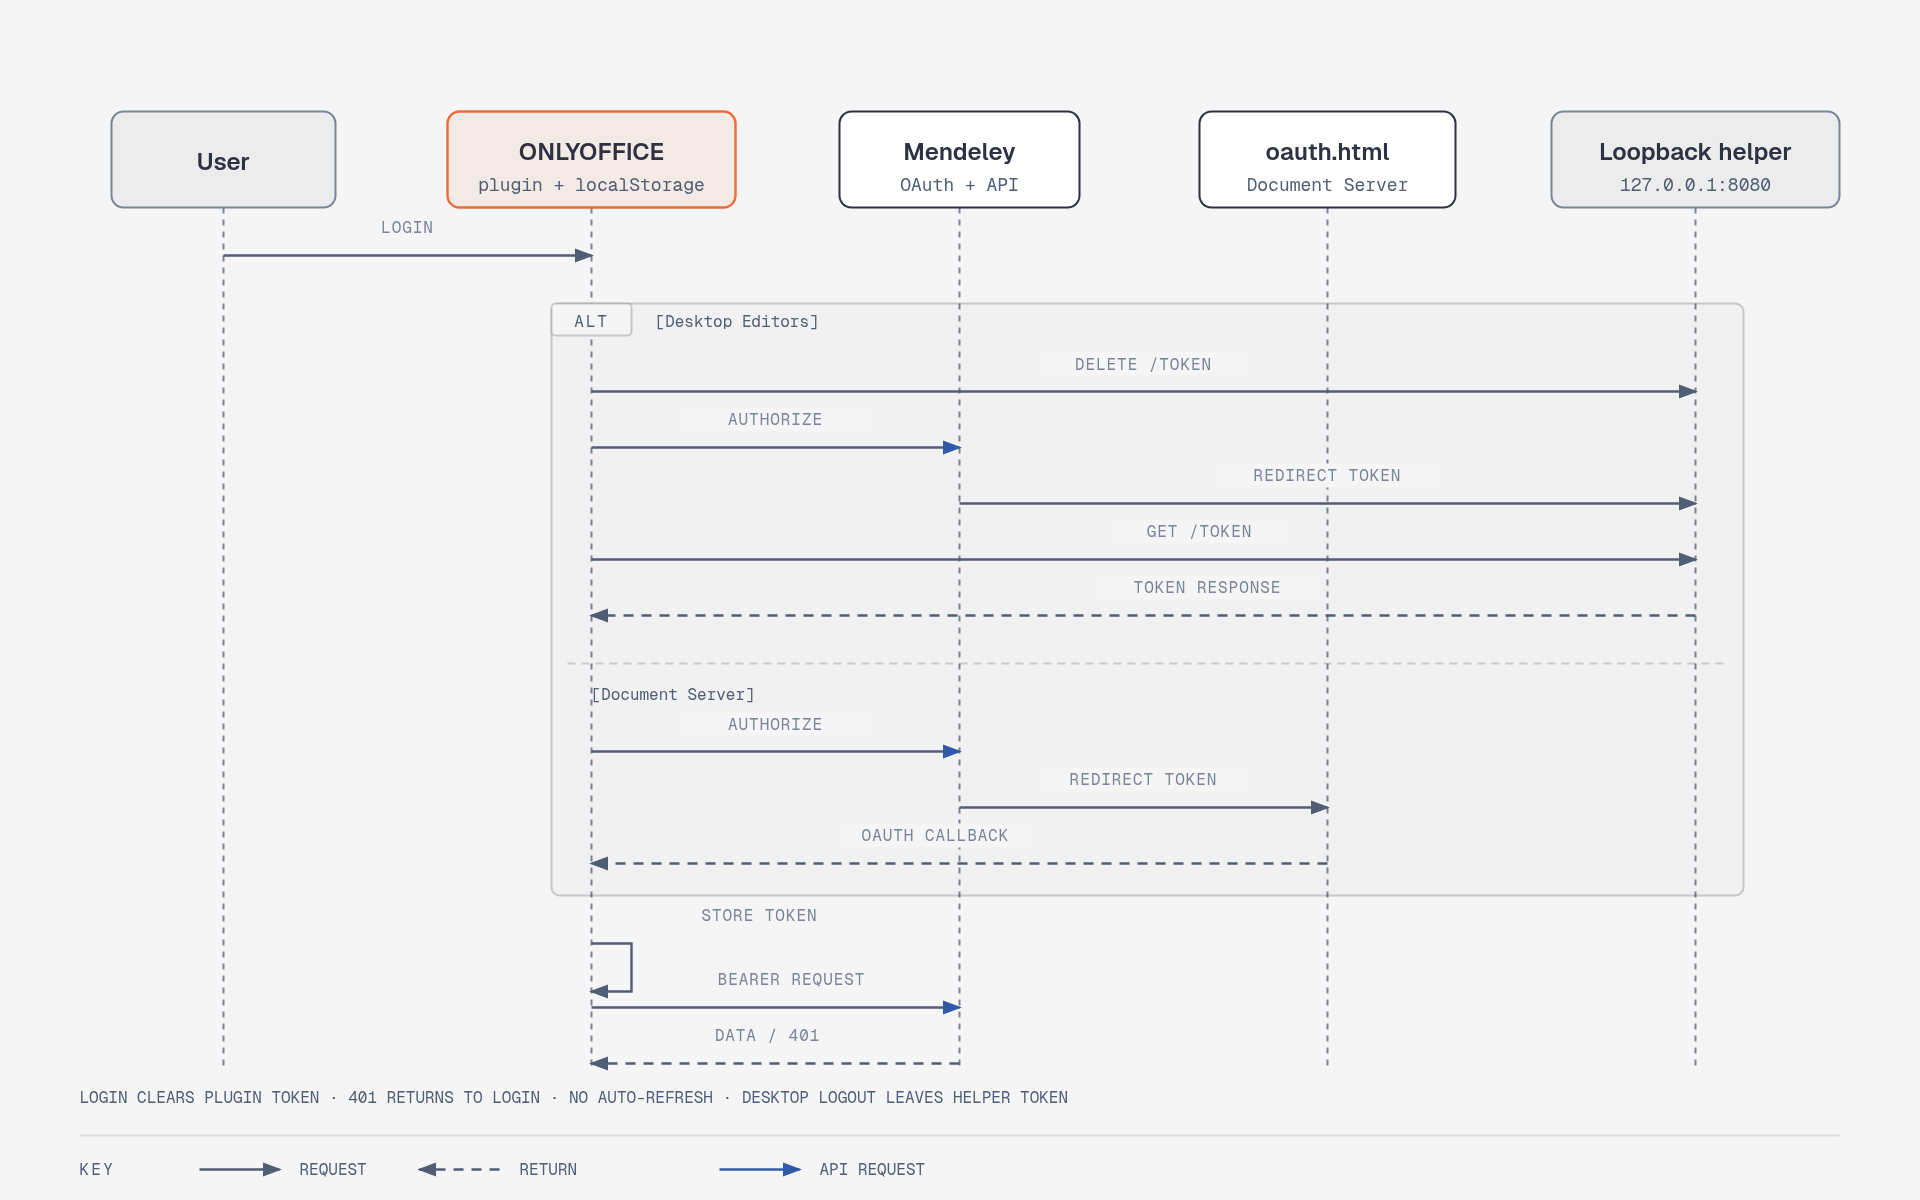
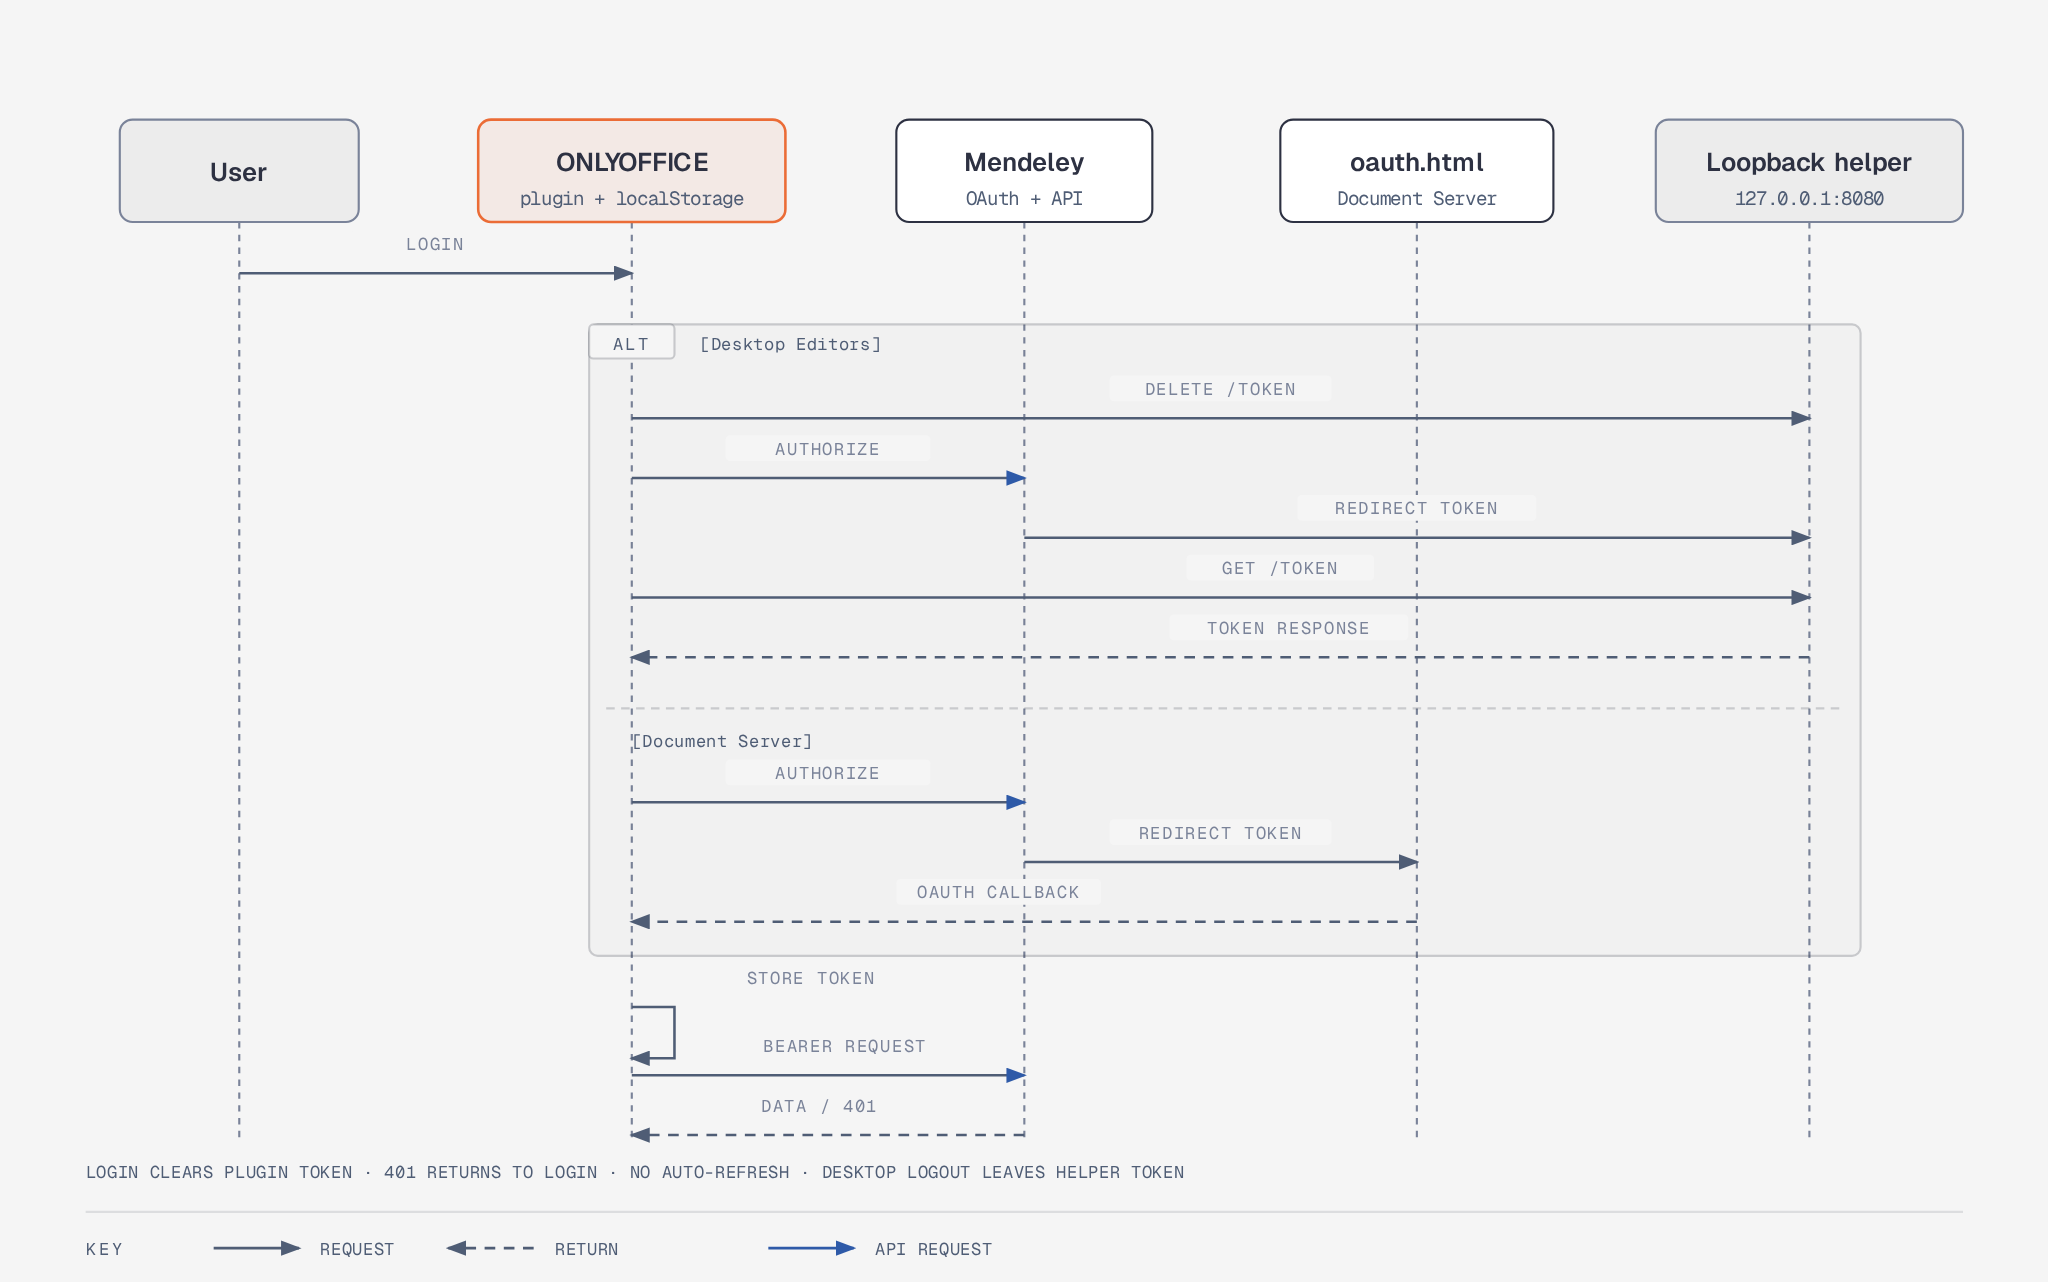
docs: refresh auth diagram PNG

diff --git a/docs/commits/refresh-auth-diagram-png.md b/docs/commits/refresh-auth-diagram-png.md
@@ -1,0 +1,8 @@
+# Refresh Authentication Diagram PNG
+
+## Change
+Regenerated the README authentication sequence PNG from its existing HTML source at 2048px wide.
+
+## Verification
+- Exported with Playwright Chromium; verified PNG dimensions: 2048 × 1282.
+- Visually inspected the refreshed PNG.
